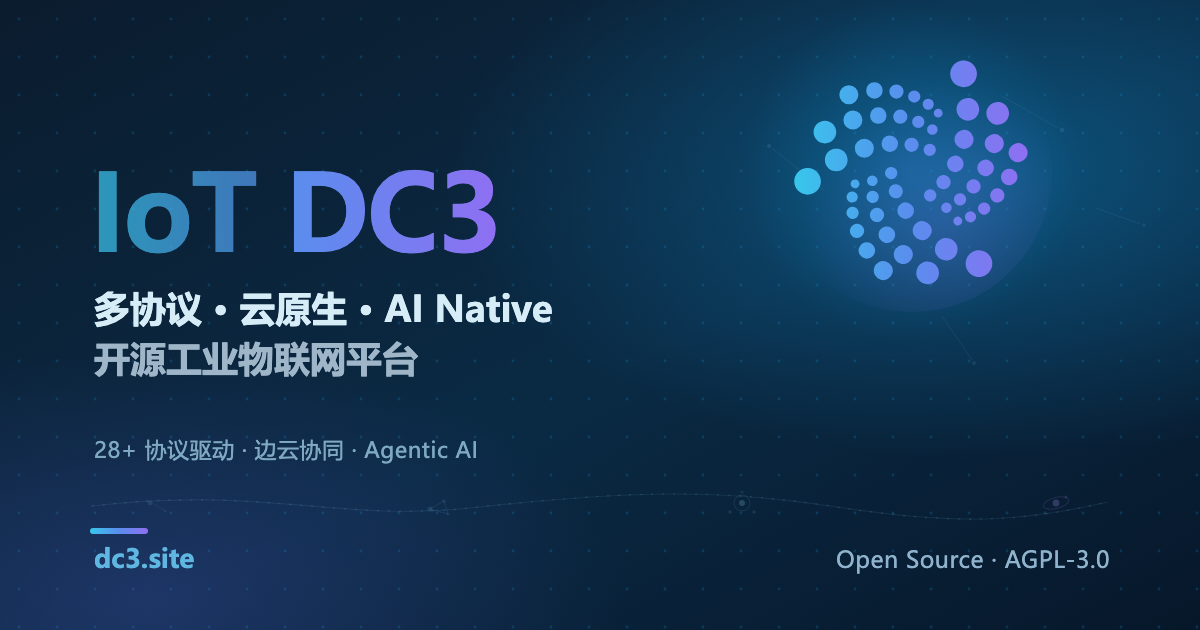
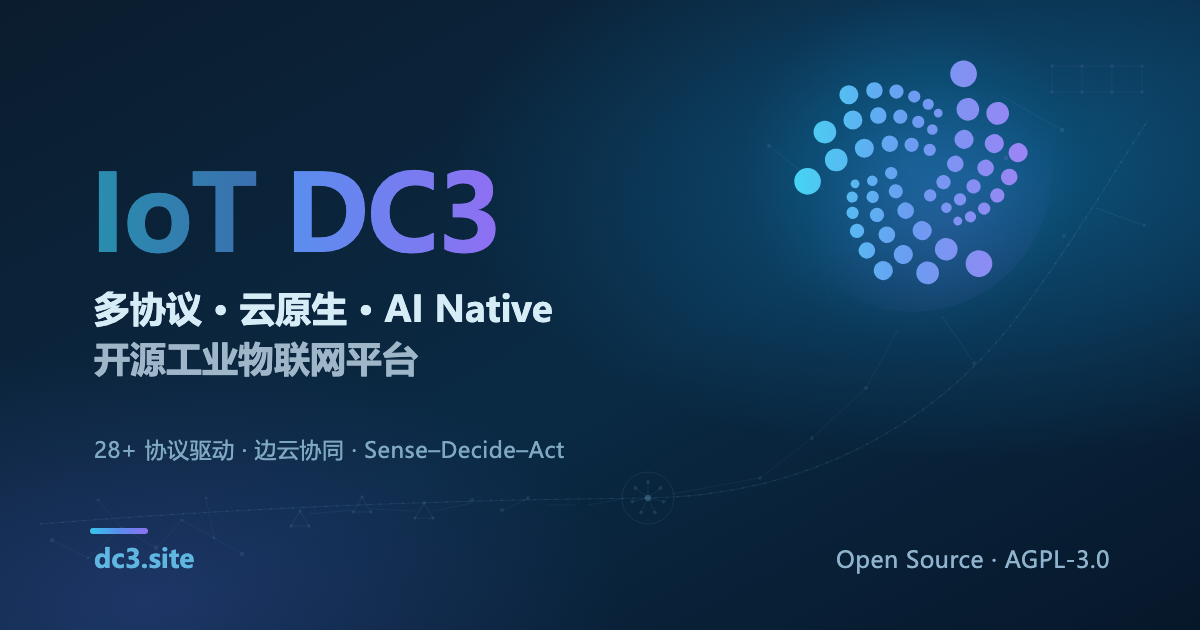
feat(brand): refine og to final version with dc3 protocol mesh

Changed region(s): [[0.3083, 0.6937, 0.4625, 0.754]]

diff --git a/.vitepress/seo.ts b/.vitepress/seo.ts
@@ -7,7 +7,7 @@ const SITE_URL = 'https://dc3.site'
 const SITE_ROOT = fileURLToPath(new URL('.', import.meta.url))
 const LOGO_IMAGE = `${SITE_URL}/images/logo.svg`
 // OG 图带版本号:微信/X 等平台按整条 URL 缓存卡片图,图片更新后必须换 URL 才会重新抓取(改图时同步 bump)
-const OG_IMAGE_VERSION = 'v2'
+const OG_IMAGE_VERSION = 'v3'
 const OG_IMAGE = {
   zh: `${SITE_URL}/images/og-zh.png?${OG_IMAGE_VERSION}`,
   en: `${SITE_URL}/images/og-en.png?${OG_IMAGE_VERSION}`
